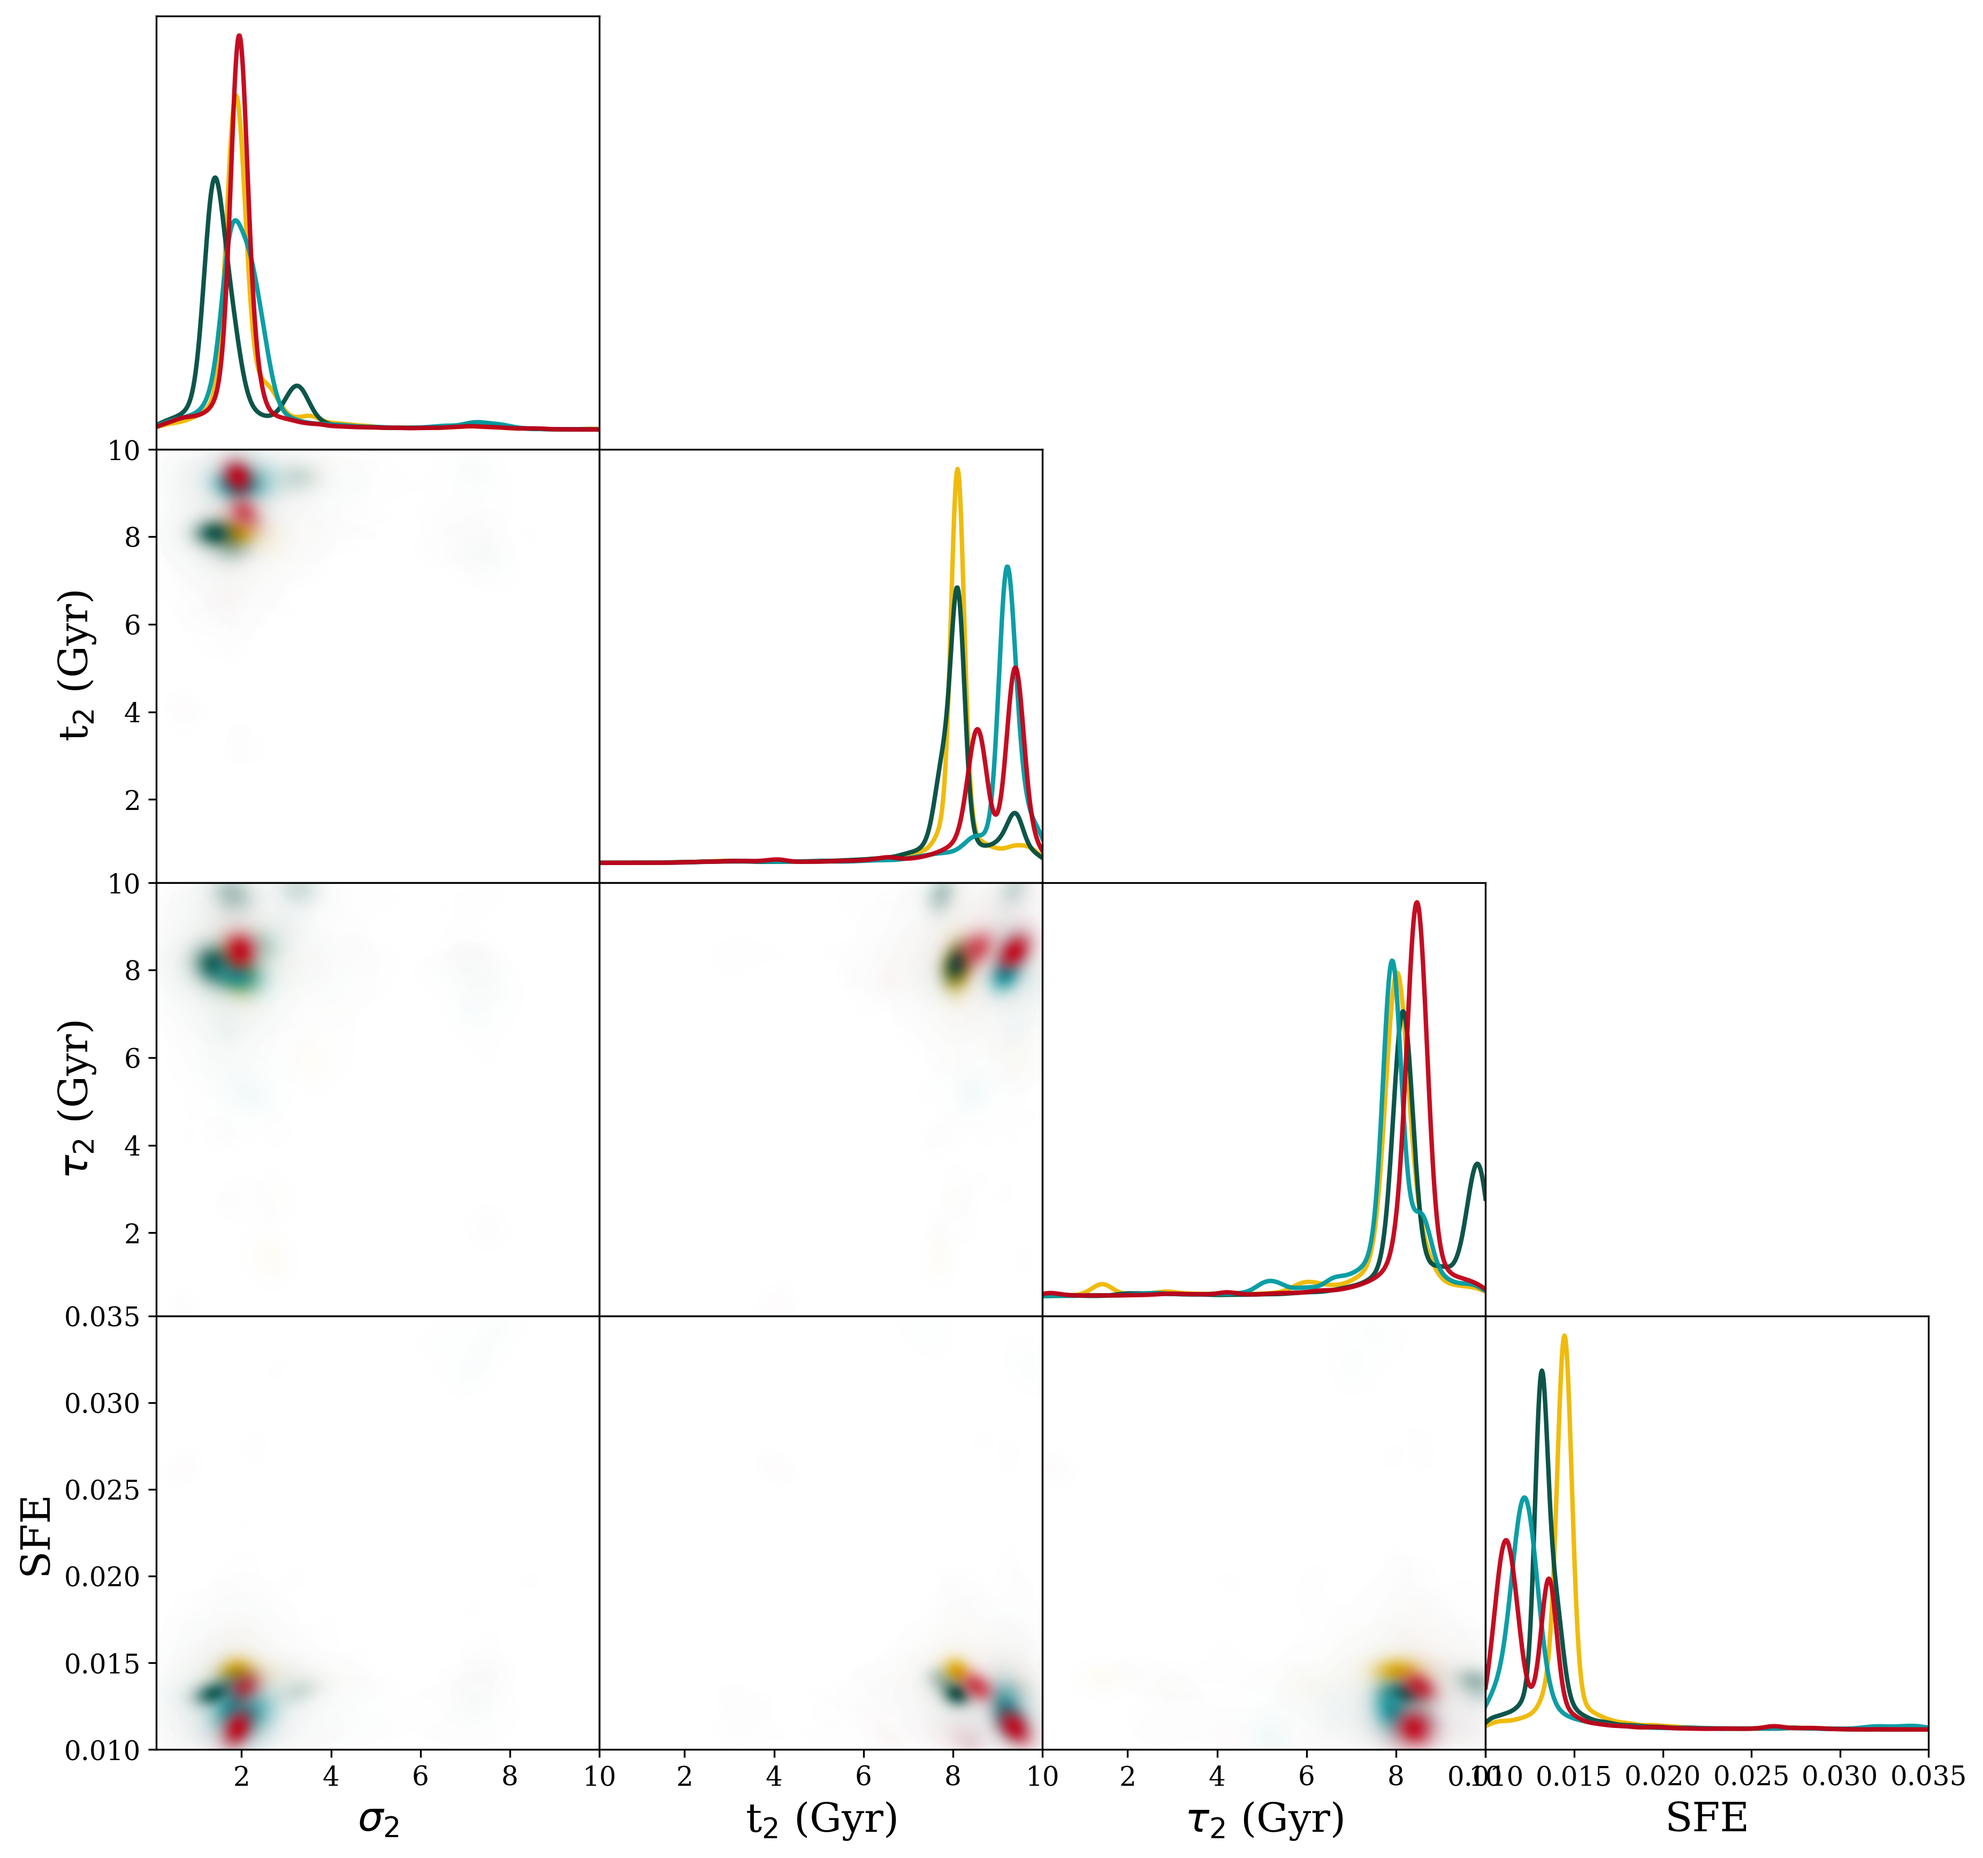
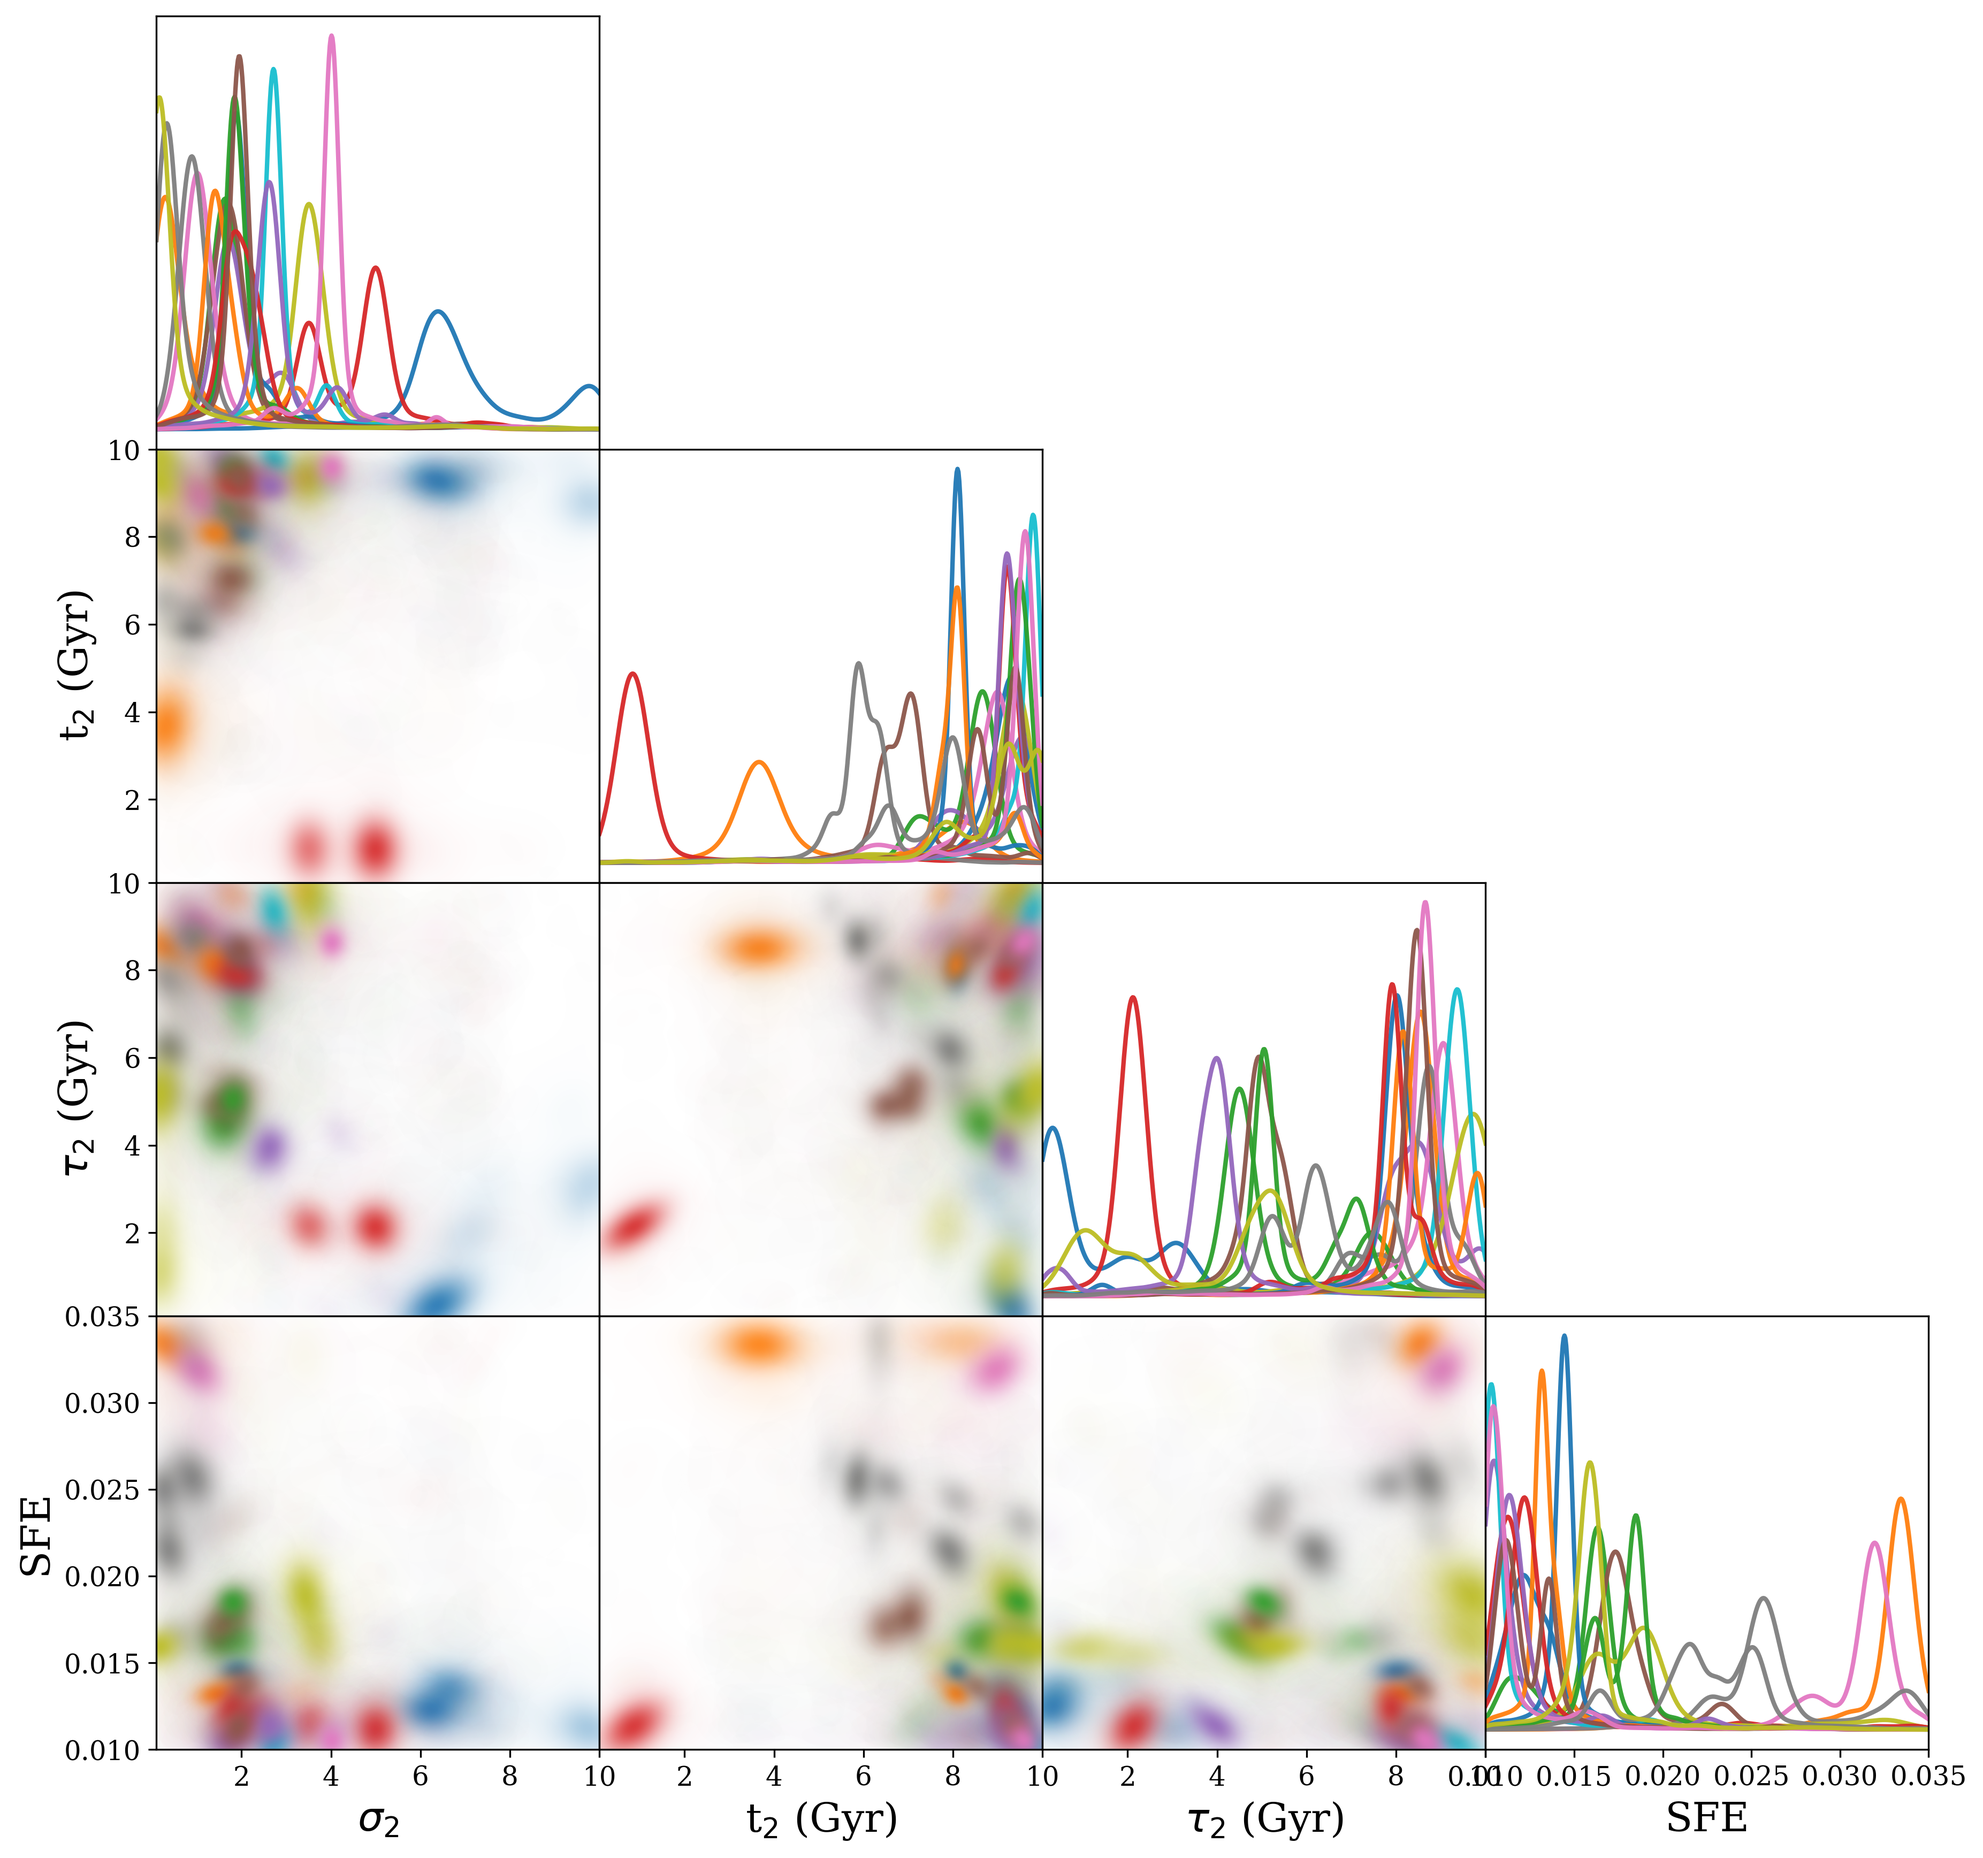
pcard

diff --git a/unvertainty_analysis.py b/unvertainty_analysis.py
@@ -1963,7 +1963,7 @@ if __name__ == "__main__":
                 '#99724B',
                 '#59454E',]
 
-    params = ['sigma_2', 't_2', 'infall_2', 't_1', 'infall_1', 'sfe', 'mgal', 'delta_sfe', 'mae']
+    params = ['sigma_2', 't_2', 'infall_2', 't_1', 'infall_1', 'sfe', 'mgal', 'delta_sfe', 'nb','imf_upper', 'mae']
 
     fig = plot_corner_points_contours(
         runs=analyzers,
